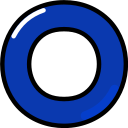
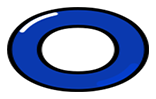
Add image to button

diff --git a/main.py b/main.py
@@ -1,5 +1,8 @@
 from tkinter import *
 
+COUNT = 0
+CLICK = True
+
 # -------- Background ------------
 window = Tk()
 window.geometry("512x512")
@@ -31,7 +34,7 @@ btn8 = StringVar()
 btn9 = StringVar()
 
 # --------- Image Section ---------
-O_photo = PhotoImage(file="images/o.png")
+o_photo = PhotoImage(file="images/1.png")
 x_photo = PhotoImage(file="images/x.png")
 
 
@@ -41,55 +44,64 @@ def play():
                      width=23,
                      relief="ridge",
                      borderwidth=.5,
-                     textvariable=btn1)
+                     textvariable=btn1,
+                     command=lambda: press(1, 0, 100))
     button1.place(x=0, y=100)
     button2 = Button(window, height=7,
                      width=23,
                      relief="ridge",
                      borderwidth=.5,
-                     textvariable=btn2)
+                     textvariable=btn2,
+                     command=lambda: press(2, 180, 100))
     button2.place(x=180, y=100)
     button3 = Button(window, height=7,
                      width=23,
                      relief="ridge",
                      borderwidth=.5,
-                     textvariable=btn3)
+                     textvariable=btn3,
+                     command=lambda: press(3, 360, 100))
     button3.place(x=360, y=100)
     button4 = Button(window, height=7,
                      width=23,
                      relief="ridge",
                      borderwidth=.5,
-                     textvariable=btn4)
+                     textvariable=btn4,
+                     command=lambda: press(4, 0, 230))
     button4.place(x=0, y=230)
     button5 = Button(window, height=7,
                      width=23,
                      relief="ridge",
                      borderwidth=.5,
-                     textvariable=btn5)
+                     textvariable=btn5,
+                     command=lambda: press(5, 180, 230))
     button5.place(x=180, y=230)
     button6 = Button(window, height=7,
                      width=23,
                      relief="ridge",
                      borderwidth=.5,
-                     textvariable=btn6)
+                     textvariable=btn6,
+                     command=lambda: press(6, 360, 230))
     button6.place(x=360, y=230)
     button7 = Button(window, height=7,
                      width=23,
                      relief="ridge",
                      borderwidth=.5,
-                     textvariable=btn7)
+                     textvariable=btn7,
+                     command=lambda: press(7, 0, 360))
     button7.place(x=0, y=360)
     button8 = Button(window, height=7,
                      width=23,
                      relief="ridge",
                      borderwidth=.5,
-                     textvariable=btn8)
+                     textvariable=btn8,
+                     command=lambda: press(8, 180, 360))
     button8.place(x=180, y=360)
     button9 = Button(window, height=7,
                      width=23,
                      relief="ridge",
                      borderwidth=.5,
-                     textvariable=btn9)
+                     textvariable=btn9,
+                     command=lambda: press(9, 360, 360))
     button9.place(x=360, y=360)
 
 
@@ -97,7 +109,11 @@ play()
 
 
 def press(num, r, c):
-    pass
+    global CLICK, COUNT
+
+    if CLICK:
+        label_image = Label(window, image=o_photo)
+        label_image.place(x=r, y=c)
 
 
 # --------- Display Section --------
